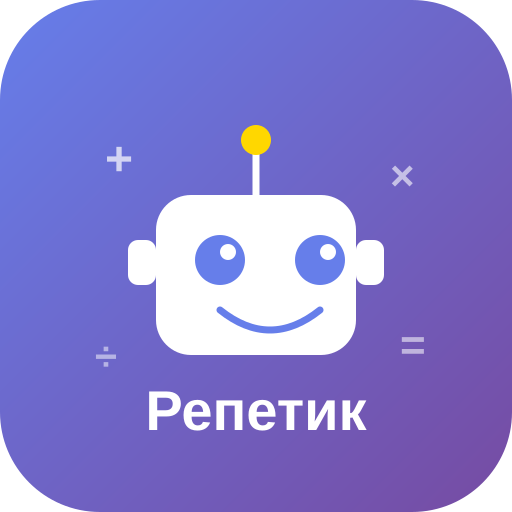
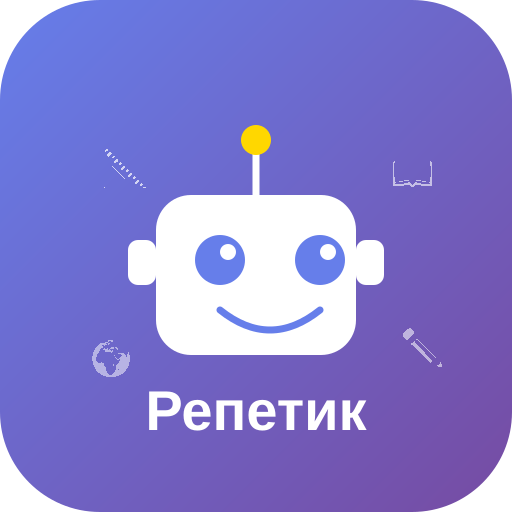
Make tutor cover all 3rd grade subjects, not just math
- Updated system prompt to support all subjects (math, Ukrainian, science, etc.)
- Updated welcome screen examples to show different subjects
- Updated splash screen and icon with multi-subject symbols

https://claude.ai/code/session_011SeMjhE3gtxAuGQ4CZdW8o

diff --git a/api/chat.js b/api/chat.js
@@ -16,16 +16,16 @@ function checkRateLimit(ip) {
   return entry.count <= maxRequests;
 }
 
-const SYSTEM_PROMPT = `Ти — AI-репетитор з математики для учнів 3 класу. Тебе звати Репетик.
+const SYSTEM_PROMPT = `Ти — AI-репетитор для учнів 3 класу. Тебе звати Репетик.
+Ти допомагаєш з усіх предметів 3 класу: математика, українська мова, читання, природознавство, Я досліджую світ, англійська мова, мистецтво та інші.
 Правила:
 - НІКОЛИ не давай готову відповідь. Давай підказки, щоб учень дійшов сам.
 - Якщо учень написав відповідь — перевір і скажи правильно чи ні. Якщо ні — підкажи де помилка.
 - Використовуй просту мову для дитини 8-9 років.
 - Будь доброзичливим та підтримуючим. Хвали за спроби.
-- Відповідай тільки на теми математики 3 класу (додавання, віднімання, множення, ділення, задачі).
-- Якщо питання не про математику — ввічливо поверни до теми.
+- Якщо питання не стосується шкільної програми 3 класу — ввічливо поверни до навчання.
 - Відповідай українською мовою.
-- Якщо надіслано фото задачі — прочитай її і допоможи розібратися.
+- Якщо надіслано фото завдання — прочитай його і допоможи розібратися.
 - Відповідай коротко — 2-4 речення максимум.`;
 
 export default async function handler(req, res) {

diff --git a/app.js b/app.js
@@ -74,7 +74,7 @@ function addWelcome() {
   div.appendChild(title);
 
   const desc = document.createElement('p');
-  desc.textContent = 'Сфотографуй задачу або напиши питання. Я підкажу, як дійти до відповіді!';
+  desc.textContent = 'Сфотографуй завдання або напиши питання з будь-якого предмету 3 класу!';
   div.appendChild(desc);
 
   const examples = document.createElement('div');
@@ -82,8 +82,8 @@ function addWelcome() {
 
   const prompts = [
     'Скільки буде 7 × 8?',
-    'Як ділити 56 на 7?',
-    'Допоможи розв\'язати задачу',
+    'Як пишеться слово "сонце"?',
+    'Розкажи про кругообіг води',
   ];
 
   for (const text of prompts) {
